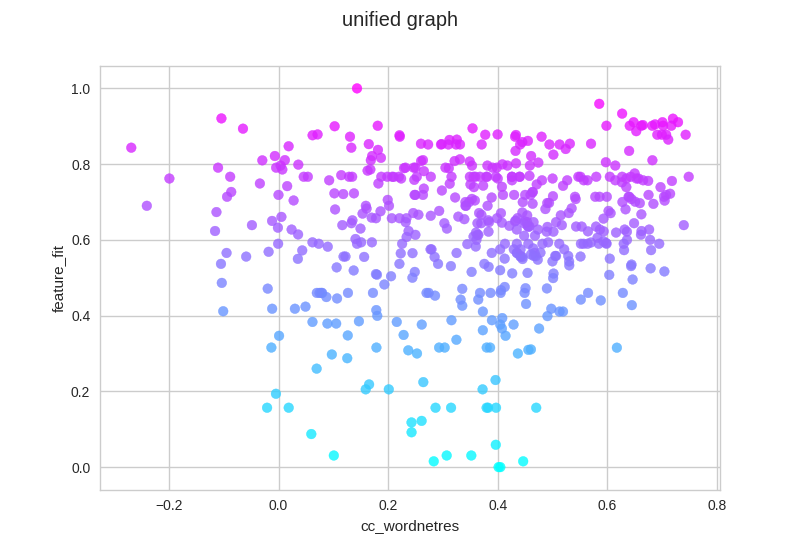
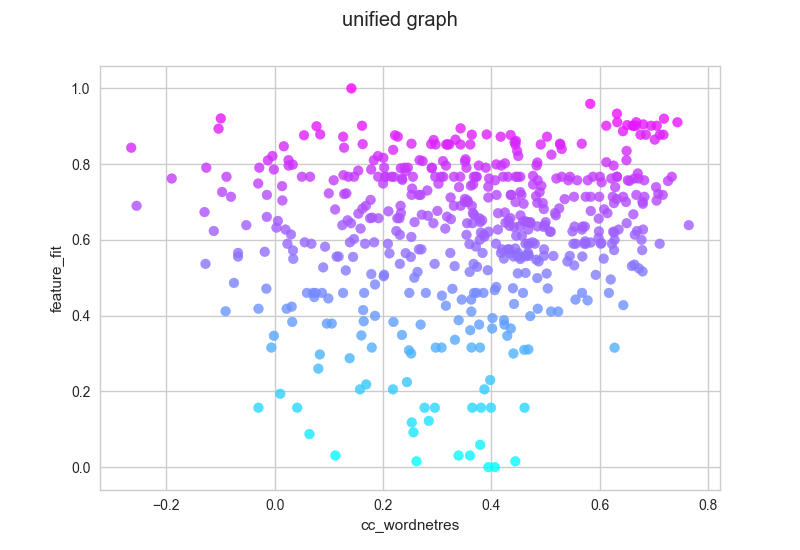
see trello

diff --git a/subgraphs/feature_fit.py b/subgraphs/feature_fit.py
@@ -19,6 +19,7 @@ import seaborn as sns
 
 import domain_feat_freq
 import get_domains
+import random
 
 # The "pivot" source is where we draw concept representations from. The
 # resulting feature_fit metric represents how well these representations encode
@@ -460,9 +461,9 @@ def analyze_domains(labels, ff_scores):
             else:
                 domain_feat_fit[d] = [ff_scores[i]]
     print("average variance: ", np.mean([np.var(domain_feat_fit[d]) for d in domain_feat_fit]))
-    domain_averages = [np.mean(domain_feat_fit[d]) for d in domain_feat_fit]
-    domains_sorted = [x for (y,x) in sorted(zip(domain_averages,domain_feat_fit.keys()))]
-    print("domains sorted by average feature_fit: ", domains_sorted)
+    # domain_averages = [np.mean(domain_feat_fit[d]) for d in domain_feat_fit]
+    # domains_sorted = [x for (y,x) in sorted(zip(domain_averages,domain_feat_fit.keys()))]
+    # print("domains sorted by average feature_fit: ", domains_sorted)
     sns.set_style("whitegrid")
     sns_plot = sns.swarmplot(x, y)
     sns_plot = sns.boxplot(x, y, showcaps=False,boxprops={'facecolor':'None'},
@@ -480,6 +481,13 @@ def produce_unified_graph(vocab, features, feature_data):
 
     #concepts_of_interest = get_domains.get_domain_concepts()[2]
 
+    domain_concepts = get_domains.get_domain_concepts()
+    domain_choices = [16, 17, 18, 26, 30] #random.sample(domain_concepts.keys(), 5)
+    domain_color_choices = ["Salmon", "SpringGreen", "Tan", "LightBlue", "MediumPurple"]
+    interesting_domains = dict(zip(domain_choices,
+        domain_color_choices))
+    print("Color lengend", interesting_domains)
+
     feature_map = {feature: weight for feature, _, weight in feature_data}
 
     print("feature\tpvar\tpmean\twvar\twmean")
@@ -491,7 +499,7 @@ def produce_unified_graph(vocab, features, feature_data):
             print("%s\t%f\t%f\t%f\t%f" % (feature.name, np.var(pearsons),
                 np.mean(pearsons), np.var(wordnets), np.mean(wordnets)))
 
-    xs, ys, zs, labels = [], [], [], []
+    xs, ys, zs, labels, colors = [], [], [], [], []
     for concept in vocab:
         weights = [feature_map[feature.name]
                    for feature in features.values()
@@ -499,7 +507,11 @@ def produce_unified_graph(vocab, features, feature_data):
                         and feature.name in feature_map]
         if not weights:
             continue
-
+        colors.append("LightGray")
+        for d in interesting_domains:
+            if concept in domain_concepts[d] and np.median(weights) < 0.2:
+                colors.pop()
+                colors.append(interesting_domains[d])
         xs.append(concept_pearson1[concept])
         ys.append(concept_pearson2[concept])
         zs.append(np.median(weights))
@@ -536,10 +548,10 @@ def produce_unified_graph(vocab, features, feature_data):
     ax = fig.add_subplot(111)
     ax.set_xlabel(PEARSON1_NAME)
     ax.set_ylabel(PEARSON2_NAME)
-    ax.scatter(xs, ys, c=cs, alpha=0.8)
-    # for i, concept in enumerate(labels):
-    #     if concept in concepts_of_interest:
-    #         ax.annotate(concept, (xs[i], ys[i]))
+    ax.scatter(xs, ys, color=colors, alpha=0.8) # c=cs
+    for i, concept in enumerate(labels):
+        if zs[i] < 0.2:
+            ax.annotate(concept, (xs[i], ys[i]))
 
     fig_path = os.path.join(GRAPH_DIR, "unified-%s-%s.png" % (PEARSON1_NAME, PEARSON2_NAME))
     fig.savefig(fig_path)

diff --git a/subgraphs/get_domains.py b/subgraphs/get_domains.py
@@ -15,7 +15,7 @@ def distance_siblings(Z, labels, threshold):
 	"""
 	Returns list of lists that are sibling clusters.
 	"""
-	membership = hierarchy.fcluster(Z, threshold, criterion='maxclust')
+	membership = hierarchy.fcluster(Z, threshold, criterion='maxclust') # maxclust
 	sib_clusters = [[] for x in range(max(membership) + 1)]
 	for i in range(len(membership)):
 		cluster_id = membership[i]
@@ -45,7 +45,7 @@ def create_X(vocabulary):
 
 	return (X, labels)
 
-def get_concept_domains(threshold=63): 
+def get_concept_domains(threshold=62): # threshold 62
 	vocab_file = open(VOCAB, 'r')
 	vocabulary = set()
 	for line in vocab_file:
@@ -59,7 +59,7 @@ def get_concept_domains(threshold=63):
 	new_clusters = []
 	new_clust = []
 	for cluster in sib_clusters:
-		if len(cluster) < 7: 
+		if len(cluster) < 3: # originally 7
 			new_clust.extend(cluster)
 		else:
 			new_clusters.append(cluster)
